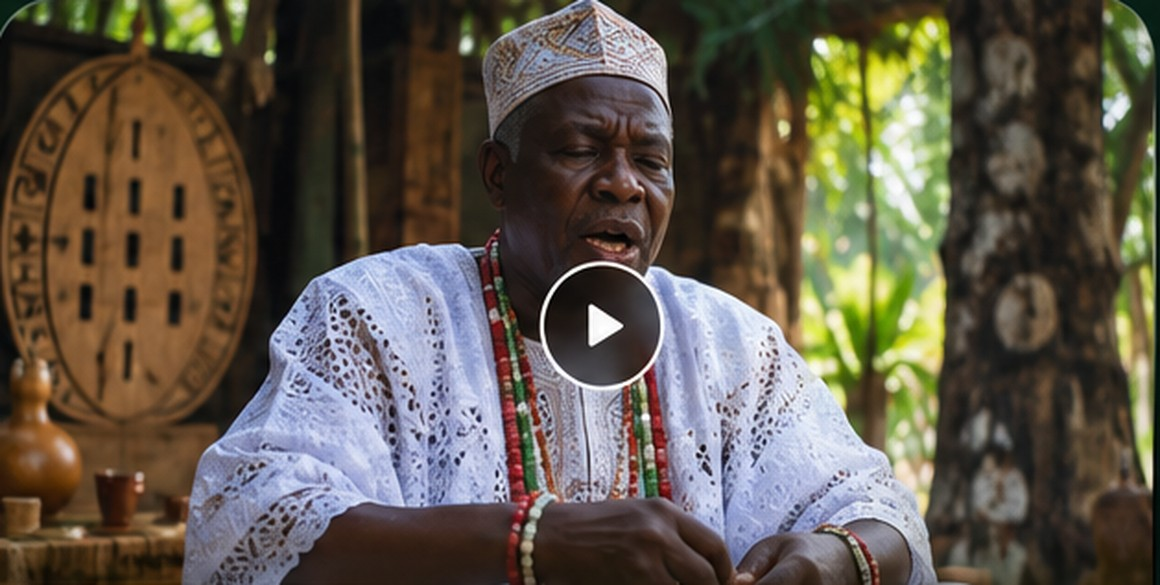
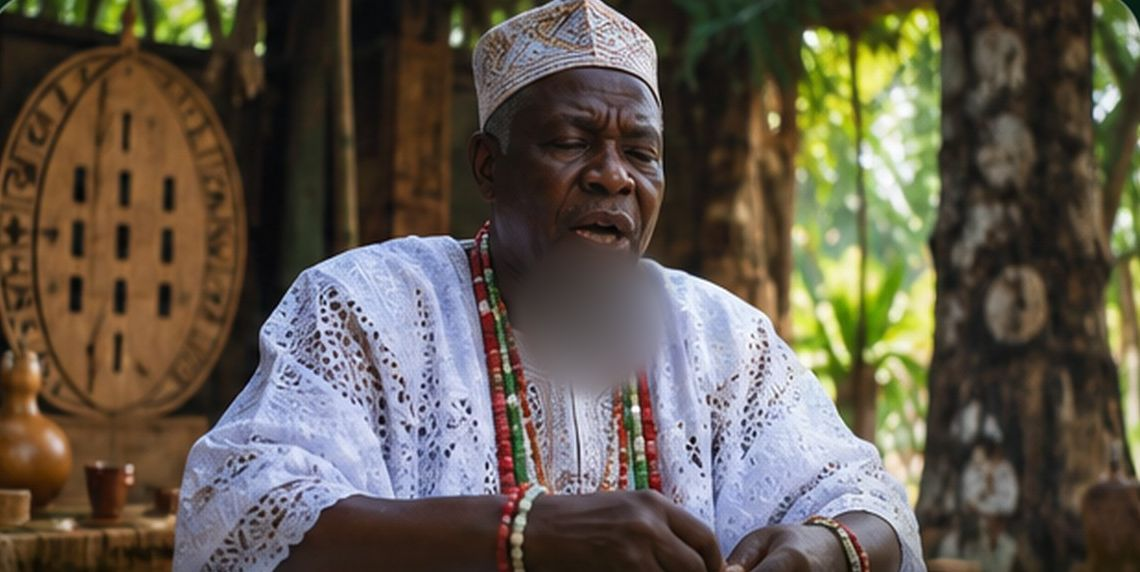
Polish redesign after browser review: brand colour defaults, mobile hero, reduced-motion marquees, admin tiles
Claude-Session: https://claude.ai/code/session_01Mzt4hSd7ZiwnJmx8YLst47

diff --git a/src/components/HeroSection.tsx b/src/components/HeroSection.tsx
@@ -65,7 +65,7 @@ const HeroSection = () => {
         onClick={HERO_VIDEO ? toggleSound : undefined}
         aria-label={HERO_VIDEO ? (muted ? 'Play chant with sound' : 'Mute chant') : undefined}
         tabIndex={HERO_VIDEO ? 0 : -1}
-        className="absolute left-1/2 top-[42%] flex -translate-x-1/2 -translate-y-1/2 items-center gap-3.5 whitespace-nowrap rounded-pill border border-white/25 bg-ink/70 py-2.5 pl-2.5 pr-5 text-[13px] font-semibold text-white backdrop-blur-md sm:top-1/2 sm:text-sm"
+        className="absolute left-1/2 top-[124px] flex -translate-x-1/2 sm:-translate-y-1/2 items-center gap-3.5 whitespace-nowrap rounded-pill border border-white/25 bg-ink/70 py-2.5 pl-2.5 pr-5 text-[13px] font-semibold text-white backdrop-blur-md sm:top-1/2 sm:text-sm"
       >
         <span className="grid h-11 w-11 place-items-center rounded-full bg-sun text-ink">
           {HERO_VIDEO && !muted ? <Volume2 className="h-[18px] w-[18px]" /> : HERO_VIDEO ? <VolumeX className="h-[18px] w-[18px]" /> : (
@@ -95,7 +95,7 @@ const HeroSection = () => {
               <Button asChild variant="sun" size="lg">
                 <Link to="/search">Meet the Babalawos →</Link>
               </Button>
-              <Button asChild variant="glass" size="lg">
+              <Button asChild variant="glass" size="lg" className="hidden sm:inline-flex">
                 <a href="#sessions">How sessions work</a>
               </Button>
               <InstallButton variant="hero" label="Download the app" buttonVariant="glass" />

diff --git a/tailwind.config.ts b/tailwind.config.ts
@@ -2,6 +2,9 @@
 import type { Config } from "tailwindcss";
 import { brand, scales, fonts, radii, shadows } from "./src/design/tokens";
 
+/** A brand scale whose bare name (bg-coral, text-sun) is the brand colour itself. */
+const withDefault = (key: keyof typeof scales & keyof typeof brand) => ({ ...scales[key], DEFAULT: brand[key] });
+
 export default {
 	darkMode: ["class"],
 	content: [
@@ -27,19 +30,19 @@ export default {
 				paper: brand.paper,
 				line: brand.line,
 				meet: brand.meet,
-				green: scales.green,
-				leaf: scales.leaf,
-				sun: scales.sun,
-				yellow: scales.sun,
-				coral: scales.coral,
-				red: scales.coral,
-				indigo: scales.indigo,
-				blue: scales.indigo,
-				camwood: scales.camwood,
-				orange: scales.camwood,
-				amber: scales.sun,
-				teal: scales.teal,
-				emerald: scales.green,
+				green: withDefault('green'),
+				leaf: withDefault('leaf'),
+				sun: withDefault('sun'),
+				yellow: withDefault('sun'),
+				coral: withDefault('coral'),
+				red: withDefault('coral'),
+				indigo: withDefault('indigo'),
+				blue: withDefault('indigo'),
+				camwood: withDefault('camwood'),
+				orange: withDefault('camwood'),
+				amber: withDefault('sun'),
+				teal: withDefault('teal'),
+				emerald: withDefault('green'),
 				/* Legacy Lovable palettes folded into the brand so older screens match */
 				purple: scales.green,
 				violet: scales.green,

diff --git a/src/pages/Search.tsx b/src/pages/Search.tsx
@@ -61,8 +61,8 @@ const SearchPage = () => {
           </div>
 
           {/* Filters */}
-          <div className="mt-8 grid gap-3 rounded-panel border border-line bg-paper p-3 sm:grid-cols-2 lg:grid-cols-[1.6fr_1fr_1fr_1fr]">
-            <div className="relative">
+          <div className="mt-8 grid grid-cols-3 gap-2 rounded-panel border border-line bg-paper p-2 sm:gap-3 sm:p-3 lg:grid-cols-[1.6fr_1fr_1fr_1fr] [&_button[role=combobox]]:max-sm:h-11 [&_button[role=combobox]]:max-sm:px-3 [&_button[role=combobox]]:max-sm:text-[13px]">
+            <div className="relative col-span-3 lg:col-span-1">
               <Label htmlFor="search-term" className="sr-only">Search by name</Label>
               <SearchIcon className="pointer-events-none absolute left-4 top-1/2 h-4 w-4 -translate-y-1/2 text-muted-foreground" aria-hidden="true" />
               <Input

diff --git a/src/components/dashboard/admin/AdminSummaryCards.tsx b/src/components/dashboard/admin/AdminSummaryCards.tsx
@@ -17,8 +17,8 @@ const AdminSummaryCards: React.FC = () => {
   }
 
   return (
-    <div className="grid grid-cols-1 gap-4 sm:grid-cols-3">
-      <StatTile tone="sun" label="Revenue" value={`₦${(stats?.revenue?.all ?? 0).toLocaleString()}`} icon={<CreditCard />} hint="All time" />
+    <div className="grid grid-cols-2 gap-3 sm:grid-cols-3 sm:gap-4">
+      <StatTile className="col-span-2 sm:col-span-1" tone="sun" label="Revenue" value={`₦${(stats?.revenue?.all ?? 0).toLocaleString()}`} icon={<CreditCard />} hint="All time" />
       <StatTile tone="leaf" label="Users" value={(stats?.totalUsers ?? 0).toLocaleString()} icon={<Users />} hint="Registered seekers" />
       <StatTile tone="indigo" label="Babalawos" value={(stats?.totalBabalawos ?? 0).toLocaleString()} icon={<UserCheck />} hint="On the platform" />
     </div>

diff --git a/src/components/babalawo/BabalawoCard.tsx b/src/components/babalawo/BabalawoCard.tsx
@@ -47,7 +47,7 @@ const BabalawoCard: React.FC<BabalawoCardProps> = ({ babalawo, onBookSession, on
         </span>
       </div>
       <div className="grid grid-cols-2 gap-2">
-        <Button variant="sun" onClick={() => onBookSession(babalawo)} aria-label={`Book a session with ${name}`}>
+        <Button onClick={() => onBookSession(babalawo)} aria-label={`Book a session with ${name}`}>
           Book
         </Button>
         <Button variant="outline" onClick={() => onViewProfile(babalawo.id)} aria-label={`View profile of ${name}`}>

diff --git a/src/components/brand/Blocks.tsx b/src/components/brand/Blocks.tsx
@@ -44,7 +44,7 @@ export const ColorBlock = ({
   children?: React.ReactNode;
 }) => (
   <div
-    className={cn('flex min-h-[220px] flex-col gap-3 rounded-[28px] p-6 text-ink', className)}
+    className={cn('flex flex-col gap-3 rounded-[28px] p-6 text-ink sm:min-h-[220px]', className)}
     style={{ backgroundColor: color ?? pastelBlocks[index % pastelBlocks.length] }}
   >
     {number !== undefined && (

diff --git a/src/components/brand/Marquee.tsx b/src/components/brand/Marquee.tsx
@@ -40,7 +40,7 @@ export function Marquee<T>({
       >
         {items.map((item, i) => renderItem(item, i, false))}
         {items.map((item, i) => (
-          <div key={`clone-${i}`} aria-hidden="true" className="contents">
+          <div key={`clone-${i}`} aria-hidden="true" className="marquee-clone contents">
             {renderItem(item, i, true)}
           </div>
         ))}

diff --git a/src/index.css b/src/index.css
@@ -189,5 +189,8 @@
     animation-iteration-count: 1 !important;
     transition-duration: 0.01ms !important;
   }
-  .marquee-track { flex-wrap: wrap; width: auto !important; }
+  /* Marquees become a swipeable row with no duplicate items. */
+  .marquee { overflow-x: auto; }
+  .marquee-track { animation: none !important; }
+  .marquee-clone { display: none !important; }
 }
